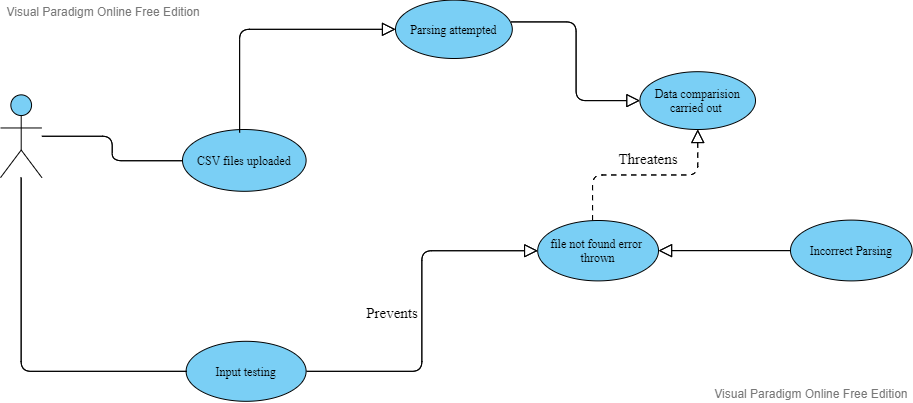
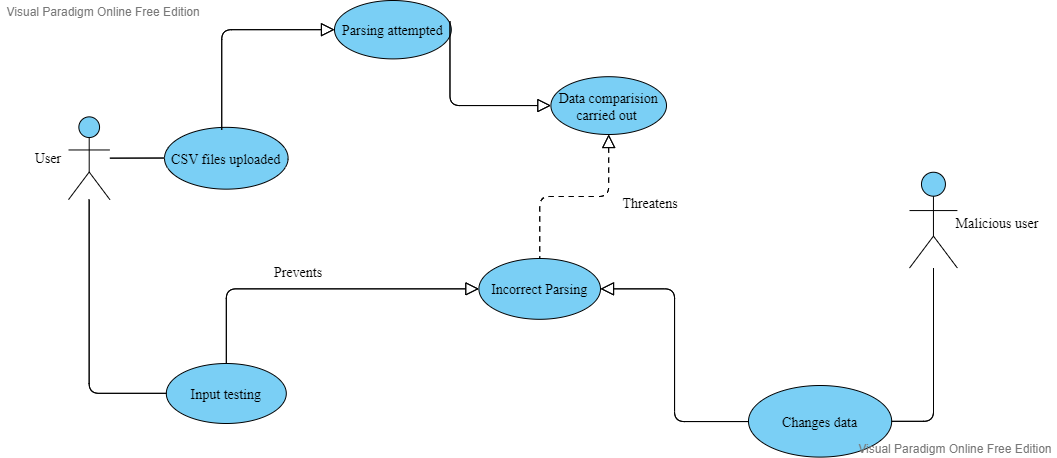
Week 8_draft 2
Updated existing misuse case

diff --git a/src/main.java b/src/main.java
@@ -54,6 +54,10 @@ public class main {
 
     public static void main(String[] args) {
 
+        /*
+        TODO: Enter your own files into the following variables: file1 and file2
+        */
+
         File file2 = new File ("C:\\Users\\fauza\\Desktop\\School stuff\\Elements of Software Construction\\Software Testing Campaign\\Software-Testing-Campaign\\sample_file_3.csv");
         File file1 = new File ("C:\\Users\\fauza\\Desktop\\School stuff\\Elements of Software Construction\\Software Testing Campaign\\Software-Testing-Campaign\\sample_file_1.csv");
         try {
